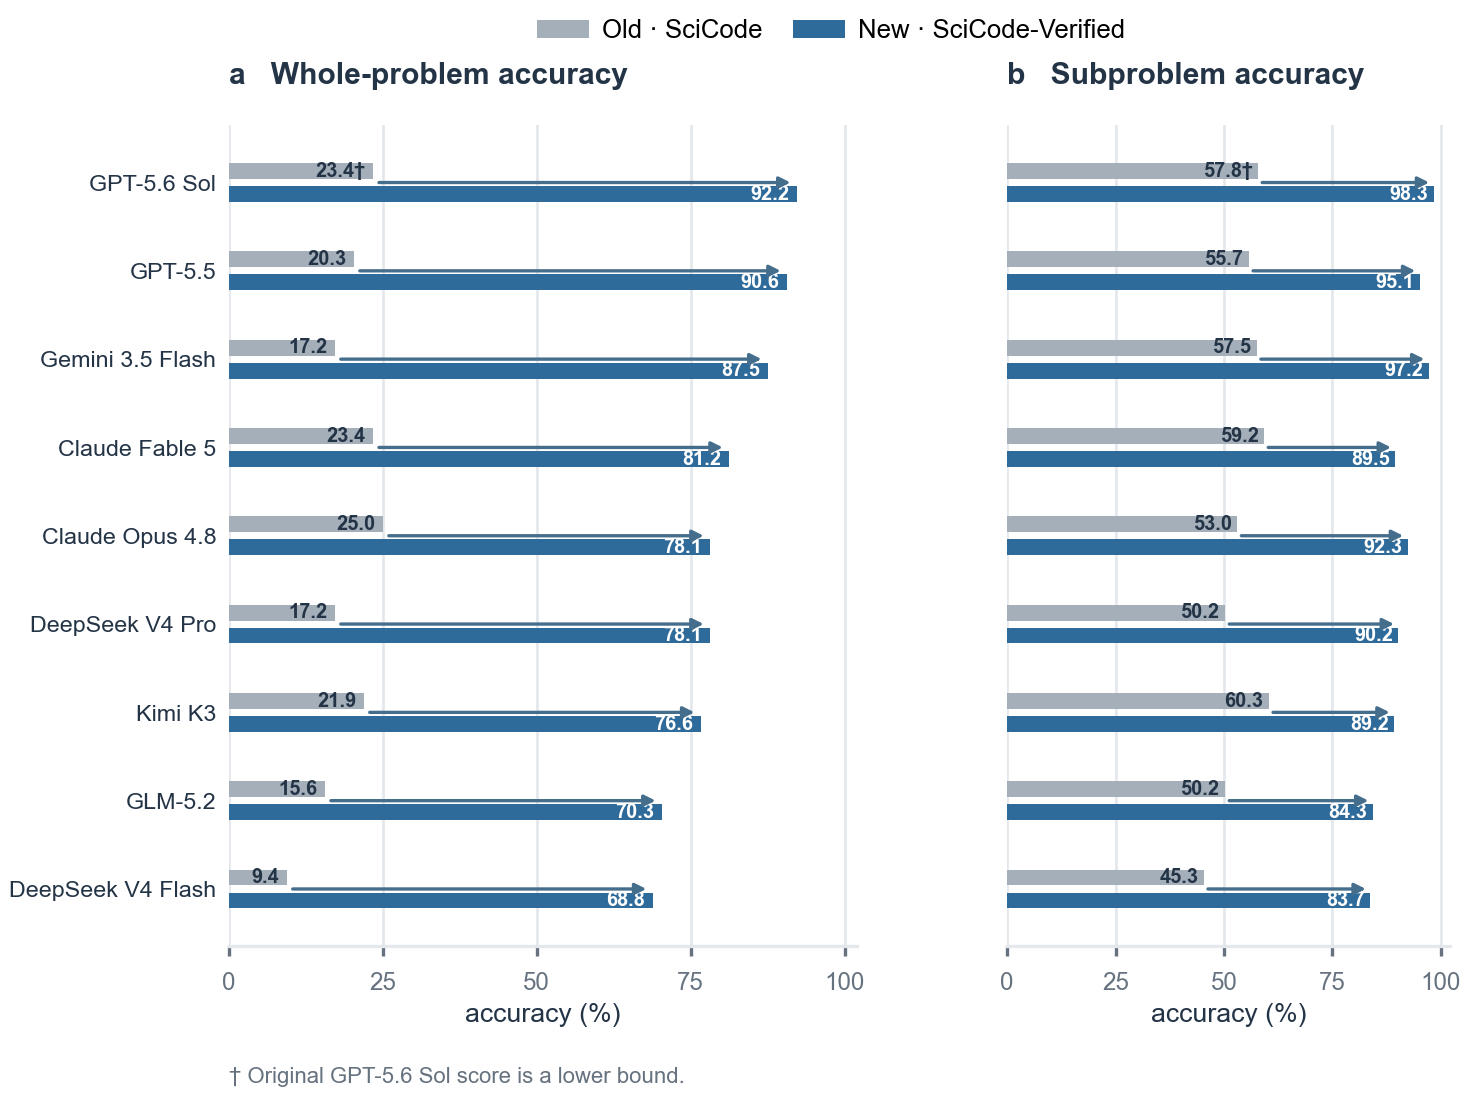
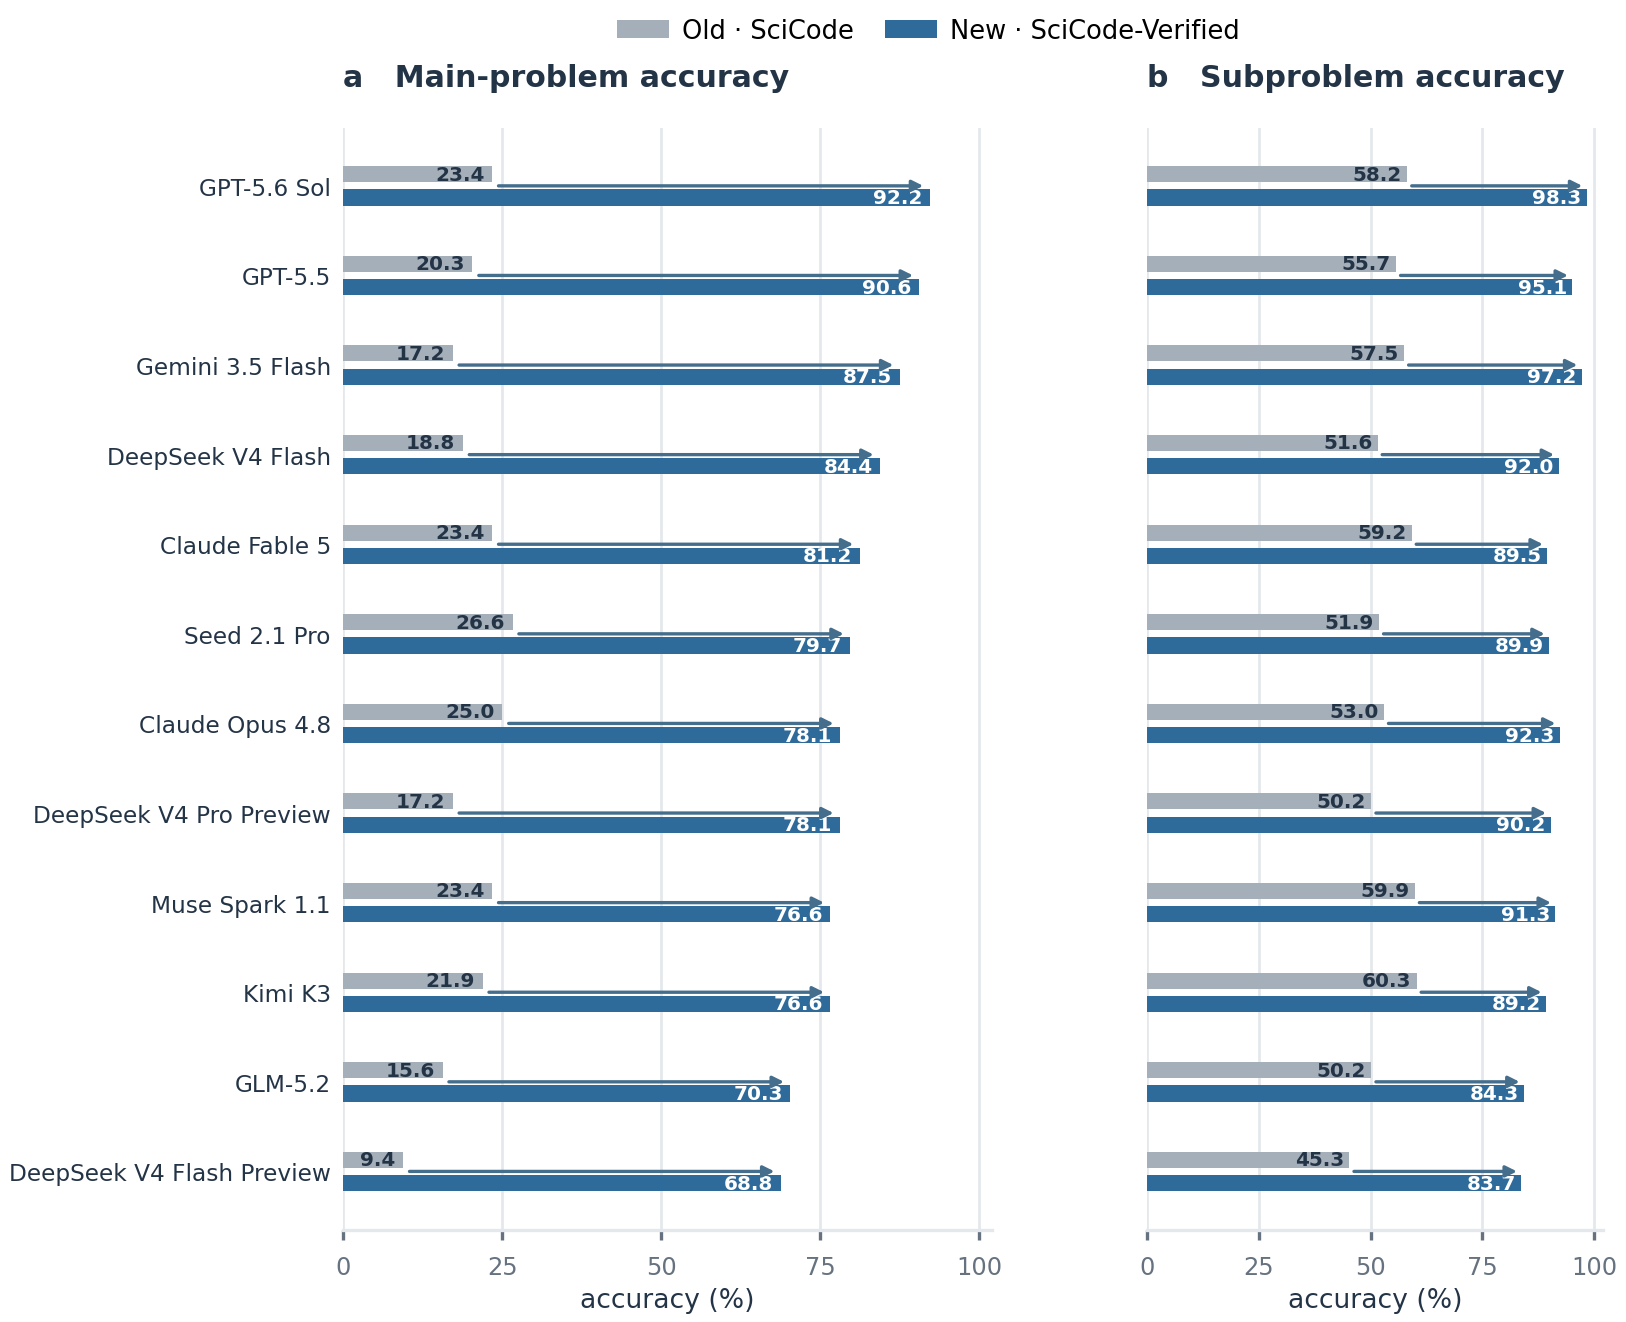
docs: sync front page with latest manuscript

diff --git a/README.md b/README.md
@@ -24,10 +24,10 @@ targets, non-deterministic tests, and other defects that can reject valid soluti
 
 <table>
   <tr>
-    <td align="center"><strong>264</strong><br>verified corrections</td>
+    <td align="center"><strong>262</strong><br>verified corrections</td>
     <td align="center"><strong>63 / 64</strong><br>problems changed</td>
-    <td align="center"><strong>192 / 264</strong><br>defects that reject correct code</td>
-    <td align="center"><strong>71 / 287</strong><br>subproblems with faulty tests or gold</td>
+    <td align="center"><strong>192 / 262</strong><br>defects that reject correct code</td>
+    <td align="center"><strong>155 / 287</strong><br>affected subproblems</td>
   </tr>
 </table>
 
@@ -42,11 +42,11 @@ failure mode in **58 of 64 main problems**.
 
 ## Matched re-evaluation
 
-<img src="assets/paper-before-after.png" width="100%" alt="Paper figure comparing original SciCode and SciCode-Verified accuracy for nine frontier models">
+<img src="assets/paper-before-after.png" width="100%" alt="Paper figure comparing original SciCode and SciCode-Verified accuracy for twelve frontier model snapshots">
 
-In the manuscript's matched nine-model evaluation, changing only the benchmark data moves the
+In the manuscript's matched twelve-model-snapshot evaluation, changing only the benchmark data moves the
 observed frontier from **45.3–60.3% to 83.7–98.3%** on subproblems, and from
-**9.4–25.0% to 68.8–92.2%** on whole problems. The model outputs protocol, evaluation harness,
+**9.4–26.6% to 68.8–92.2%** on whole problems. The model output protocol, evaluation harness,
 with-background condition, pass@1 setting, and multi-environment-OR grading are held fixed.
 
 > SciCode-Verified is not an easier rewrite. Corrections state what is required to make each
